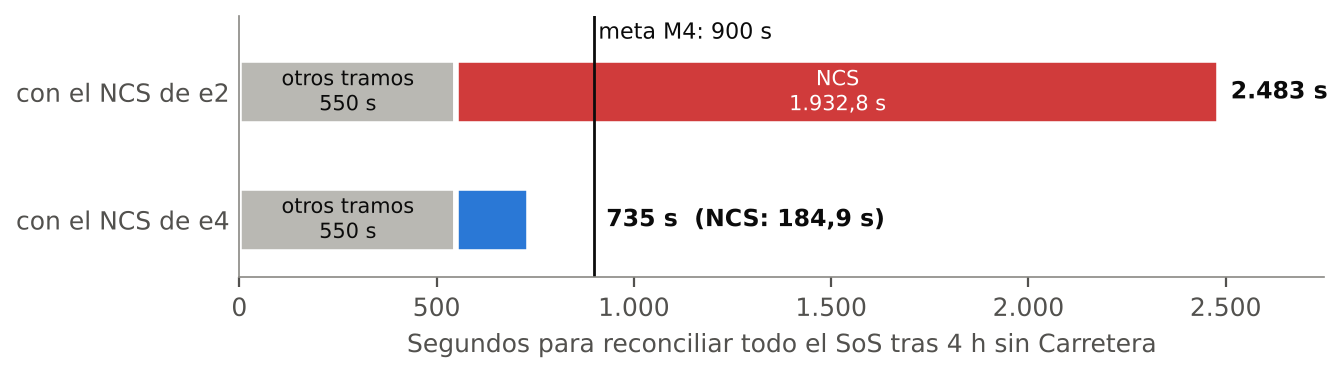
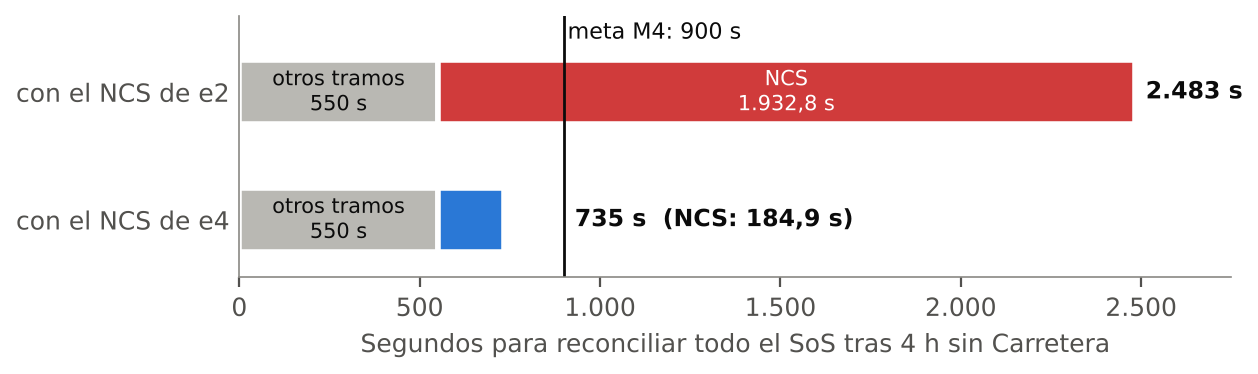
[D4] Figuras sin solapamientos y al ancho de página
Claude-Session: https://claude.ai/code/session_01ViMf3YAR9bfEnxdr9RZMQp

diff --git a/figures.py b/figures.py
@@ -47,7 +47,7 @@ def chain():
                            ('BAD', 2, True), ('ADU', 2, False), ('BRI', 2, True), ('RSK', 2, False),
                            ('EXDB', 2, False)], 'β = 0,05 · dos zonas'),
     ]
-    fig, ax = plt.subplots(figsize=(7.0, 2.9))
+    fig, ax = plt.subplots(figsize=(6.4, 2.9))
     ax.set_xlim(-0.2, 10.4)
     ax.set_ylim(-1.05, 3.2)
     ax.axis('off')
@@ -99,7 +99,7 @@ def availability():
         ('e4 · T-R1 + T-R2', 99.957, 99.953, 99.961),
     ]
     hours = lambda a: (100 - a) / 100 * 8760
-    fig, ax = plt.subplots(figsize=(7.0, 2.9))
+    fig, ax = plt.subplots(figsize=(6.4, 2.9))
     ys = range(len(data))[::-1]
     for y, (label, a, lo, hi) in zip(ys, data):
         v = hours(a)
@@ -113,13 +113,12 @@ def availability():
             color = BAD
         ax.barh(y, v, height=0.55, color=color, zorder=2)
         ax.errorbar(v, y, xerr=[[v - hours(hi)], [hours(lo) - v]], fmt='none', ecolor=INK, elinewidth=0.8, capsize=2, zorder=3)
-        ax.text(hours(lo) + 0.8, y, f'{es(v)} h  ({es(a, 3)} %)', va='center', fontsize=8, color=INK)
+        ax.text(max(hours(lo) + 0.8, 10.0), y, f'{es(v)} h  ({es(a, 3)} %)', va='center', fontsize=8, color=INK)
     ax.set_yticks(list(ys))
     ax.set_yticklabels([d[0] for d in data])
-    ax.axvline(hours(99.9), color=INK, lw=0.9, ls='-', zorder=4)
-    ax.text(hours(99.9) + 0.4, len(data) - 0.45, 'umbral 99,9 % = 8,8 h/año', fontsize=8, color=INK)
-    ax.axvline(hours(99.92), color=INK2, lw=0.7, ls=':', zorder=4)
-    ax.text(hours(99.92) - 0.4, -0.75, 'con margen\n(≥ 99,92 %)', ha='right', va='bottom', fontsize=7, color=INK2)
+    ax.axvline(hours(99.9), color=INK, lw=0.9, ls='-', zorder=4, label='umbral 99,9 % (8,8 h/año)')
+    ax.axvline(hours(99.92), color=INK2, lw=0.8, ls=':', zorder=4, label='con margen 99,92 % (7,0 h/año)')
+    ax.legend(loc='lower right', frameon=False, fontsize=8)
     ax.set_xlabel('Horas al año con la cadena de levante caída (menos es mejor)')
     ax.set_xlim(0, 72)
     ax.grid(axis='x', color=GRID, lw=0.5, zorder=0)
@@ -129,16 +128,16 @@ def availability():
 
 def backlog():
     """Figure 3: how the custody backlog drains in e2 and e4 (fluid view, 14 400 events)."""
-    fig, ax = plt.subplots(figsize=(7.0, 2.6))
+    fig, ax = plt.subplots(figsize=(6.4, 2.6))
     n = 14400
     for label, free, color in [('e2: 2 × 4,5 ev/s − 1,5 de carga = 7,5 ev/s libres', 7.5, BAD),
                                ('e4: 2 × 40 ev/s − 1,5 de carga = 78,5 ev/s libres', 78.5, BLUE)]:
         t = n / free
         ax.plot([0, t], [n, 0], color=color, lw=2, solid_capstyle='round', label=label)
         ax.plot([t], [0], 'o', color=color, ms=5, zorder=3)
-        ax.text(t - 25 if free > 10 else t, 900, f'≈ {es(t, 0)} s', ha='right' if free > 10 else 'center', fontsize=8, color=INK)
+        ax.text(t - 35 if free > 10 else t, 600 if free > 10 else 900, f'≈ {es(t, 0)} s', ha='right' if free > 10 else 'center', fontsize=8, color=INK)
     ax.axvline(230, color=INK, lw=0.9)
-    ax.text(240, 13000, 'meta: 230 s', fontsize=8, color=INK)
+    ax.text(245, 7500, 'meta: 230 s', fontsize=8, color=INK)
     ax.set_xlim(0, 2050)
     ax.set_ylim(0, 15500)
     ax.set_xlabel('Segundos desde que Carretera vuelve')
@@ -153,7 +152,7 @@ def backlog():
 def m4():
     """Figure 4: SoS-QS1 (M4) = agreed budgets of the other stages + the verified NCS stage."""
     others = 200 + 40 + 10 + 300
-    fig, ax = plt.subplots(figsize=(7.0, 1.7))
+    fig, ax = plt.subplots(figsize=(6.4, 1.7))
     for y, v, color in [(1, 1932.8, BAD), (0, 184.9, BLUE)]:
         ax.barh(y, others, height=0.5, color='#b9b8b3', edgecolor='white', lw=2)
         ax.text(others / 2, y, f'otros tramos\n{es(others, 0)} s', ha='center', va='center', fontsize=7.5, color=INK)
@@ -186,15 +185,19 @@ def capacity():
     m = [377.3, 248.4, 231.7, 212.2, 184.9, 122.8]
     lo = [375.4, 247.3, 230.5, 211.3, 183.8, 122.0]
     hi = [379.3, 249.5, 233.0, 213.0, 186.1, 123.5]
-    fig, ax = plt.subplots(figsize=(7.0, 2.6))
+    fig, ax = plt.subplots(figsize=(6.4, 2.6))
     sweep(ax, xs, m, lo, hi, BLUE)
     ax.axhline(230, color=INK, lw=0.9)
     ax.axhline(207, color=INK2, lw=0.7, ls=':')
     ax.text(58, 233, 'meta 230 s', ha='right', va='bottom', fontsize=8, color=INK)
     ax.text(58, 210, 'con margen ≤ 207 s', ha='right', va='bottom', fontsize=8, color=INK2)
     for x, v in zip(xs, m):
-        ax.annotate(f'{es(v)} s', (x, v), xytext=(5, 5), textcoords='offset points', fontsize=7.5, color=INK)
-    ax.set_xlabel('Capacidad de CAR por instancia (ev/s) · rediseño: 40 · supuesto anterior: 4,5')
+        if x == 32.1:      # threshold point: callout in the empty lower-left area
+            ax.annotate(f'32,1 ev/s → {es(v)} s\n(todavía viola la meta)', (x, v), xytext=(22.5, 165),
+                        fontsize=7.5, color=INK, arrowprops=dict(arrowstyle='-', color=MUTED, lw=0.6))
+        else:
+            ax.annotate(f'{es(v)} s', (x, v), xytext=(5, 5), textcoords='offset points', fontsize=7.5, color=INK)
+    ax.set_xlabel('Capacidad de CAR por instancia (ev/s); el rediseño supone 40')
     ax.set_ylabel('Tiempo de recuperación (s)')
     ax.set_xlim(18, 62)
     ax.grid(color=GRID, lw=0.5, zorder=0)
@@ -207,7 +210,7 @@ def beta():
     m = [99.999, 99.982, 99.955, 99.928, 99.914, 99.908, 99.901, 99.893, 99.863]
     lo = [99.999, 99.980, 99.950, 99.923, 99.908, 99.901, 99.893, 99.886, 99.857]
     hi = [100.0, 99.985, 99.960, 99.933, 99.920, 99.915, 99.908, 99.900, 99.870]
-    fig, ax = plt.subplots(figsize=(7.0, 2.6))
+    fig, ax = plt.subplots(figsize=(6.4, 2.6))
     sweep(ax, xs, m, lo, hi, BLUE)
     ax.axhline(99.9, color=INK, lw=0.9)
     ax.axhline(99.92, color=INK2, lw=0.7, ls=':')
